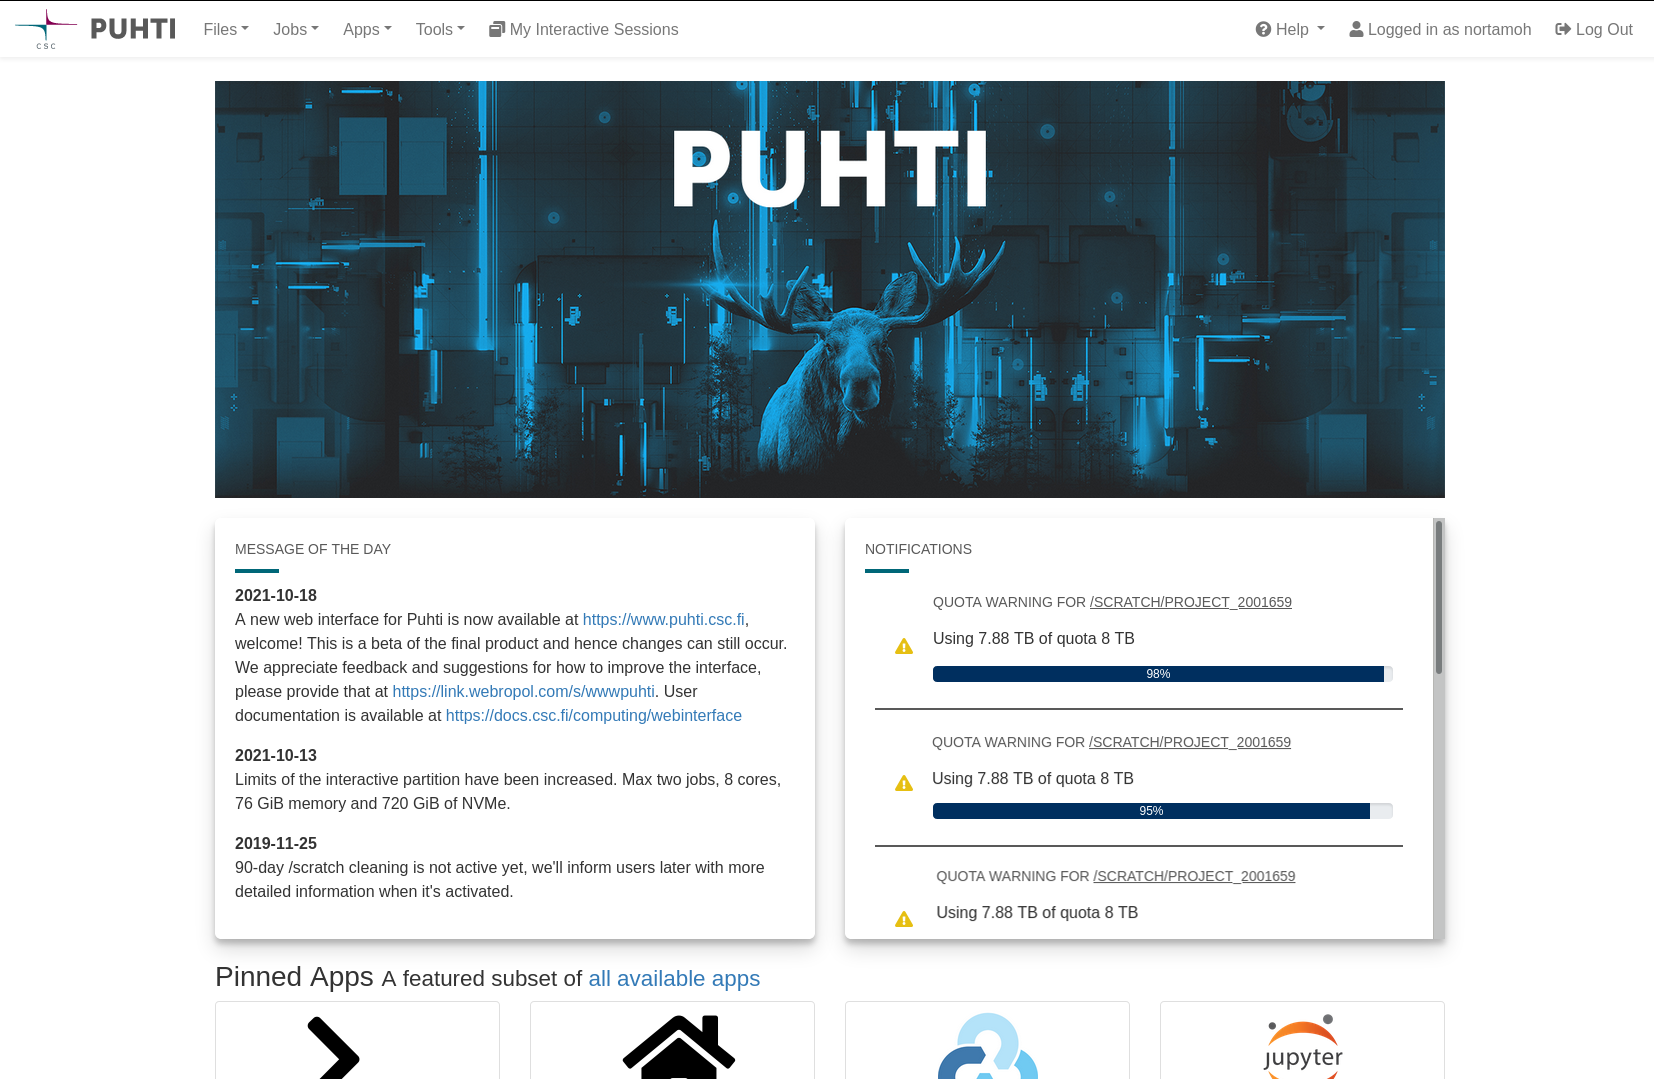
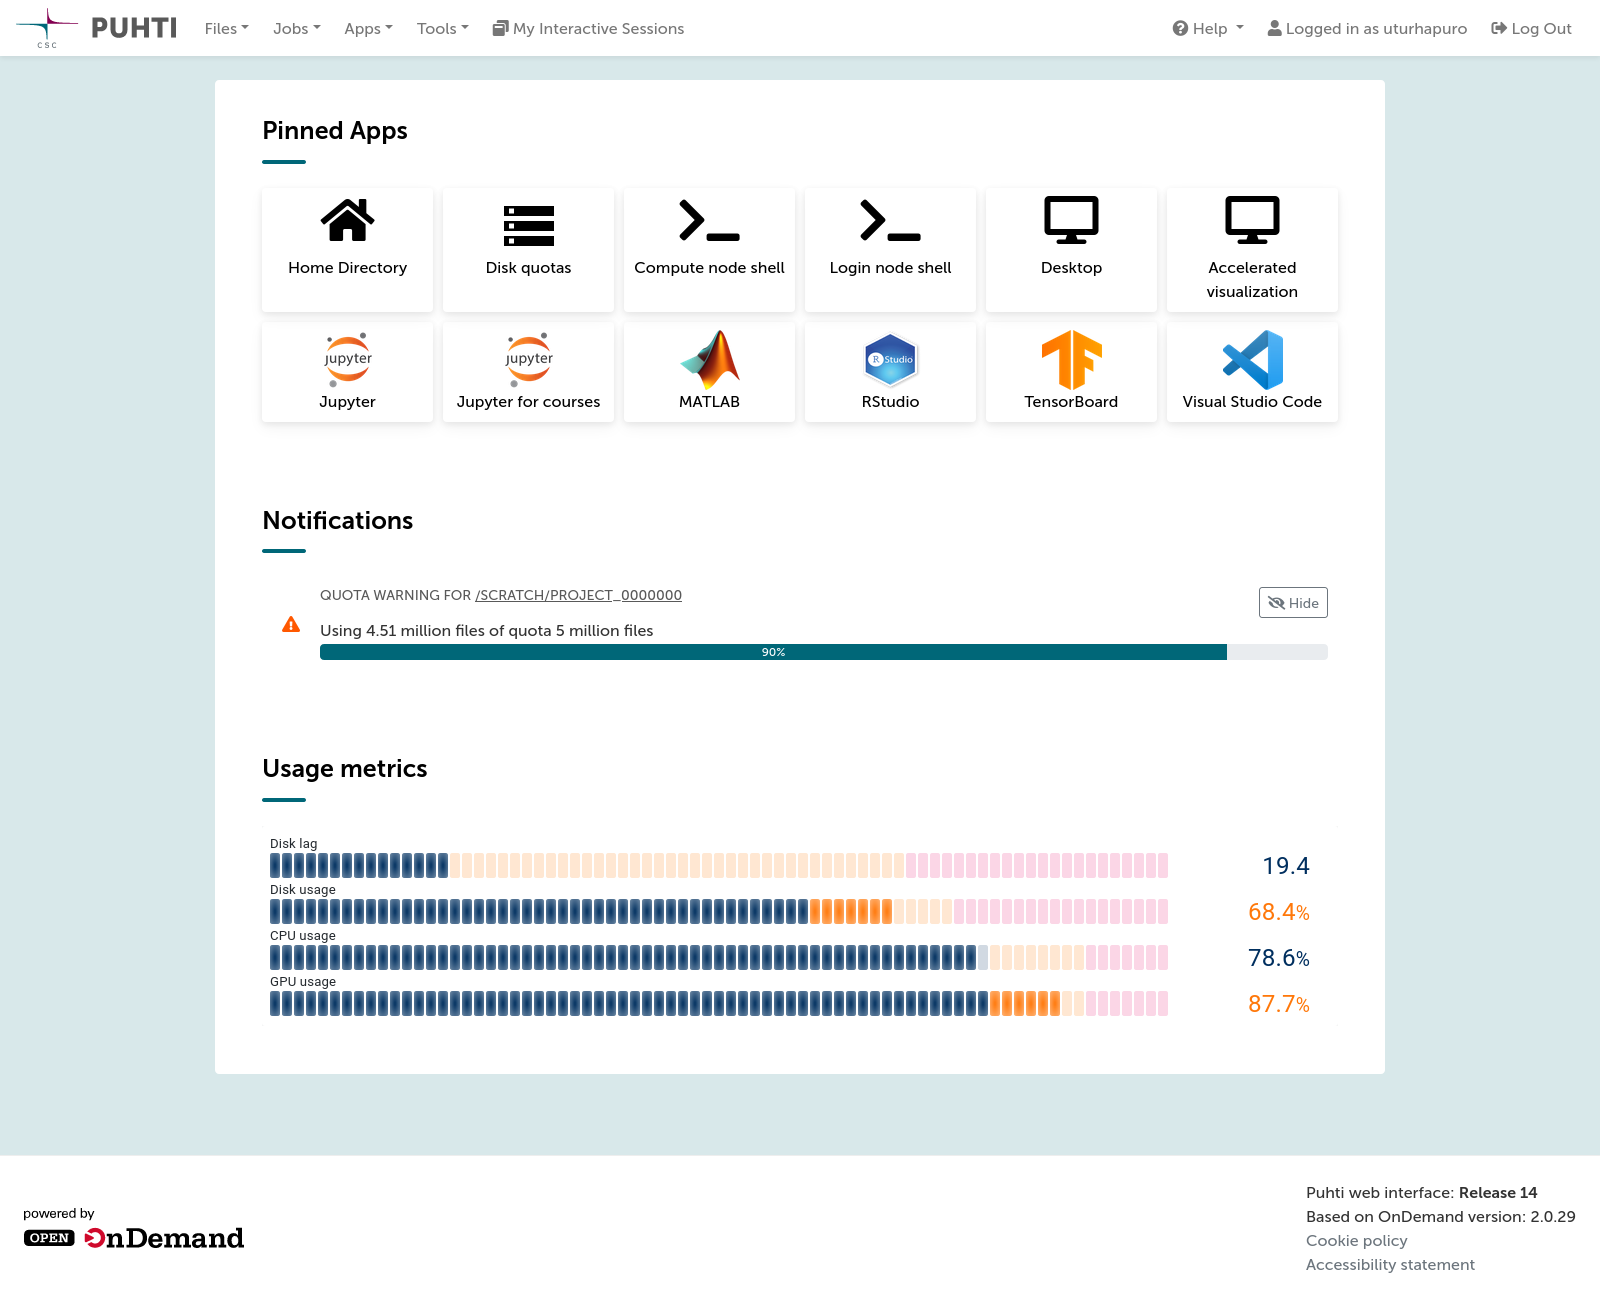
Update 'Computing > Web interface' (#1559)
* Updated screenshots

* Updated login instructions

* Minor adjustments

* Adjust screenshot

* Remove mention of Rclone

* Added 'Jupyter for courses'

* Added 'Accelerated visualization'

---------

diff --git a/docs/computing/webinterface/index.md b/docs/computing/webinterface/index.md
@@ -1,34 +1,44 @@
 # Puhti web interface
 
-
 ## Intro
 
 The Puhti web interface at [www.puhti.csc.fi](https://www.puhti.csc.fi) can be used to access the Puhti supercomputer 
-using just a web browser. In the web interface you can:
+using only a web browser. With the web interface you can:
 
 - View, download and upload files
 - Launch common graphical applications and connect to them directly from the browser
     - Jupyter
-    - Rstudio
+    - Jupyter for courses: An interactive Jupyter session specifically for courses
+    - RStudio
     - Visual Studio Code
     - and more
+- Launch an interactive GPU accelerated visualization session for applications such as
+    - Blender
+    - COMSOL
+    - ParaView
+    - VMD
 - Open a shell on the login node
-- open a persistent shell on a compute node
+- Open a persistent shell on a compute node
 - View running batch jobs
 
 Everything still runs directly on Puhti, giving you all the resources and power
-of a supercomputer, but easily accessible using just a web browser. 
+of a supercomputer, but easily accessible using only a web browser.
 
 
 ## Connecting
 
-Go to [puhti.csc.fi](https://puhti.csc.fi) using a web browser and login using your CSC user account (same username and password you use when connecting with `ssh`). 
+Using a web browser, go to [www.puhti.csc.fi](https://www.puhti.csc.fi). On the landing page, click on "Log in to Puhti" and select an appropriate authentication provider. When logging in using your CSC user account, select CSC as the authentication provider and use the same username and password you use when connecting with `ssh`.
+&nbsp;
+
 ![Puhti web interface login page](../../img/ood_login.png)
 
-After logging in, you will see the front page.
+After successful authentication, you will see the dashboard.
+&nbsp;
+
 ![Puhti web interface front page](../../img/ood_main.png)
 
-From here you can browse your files on Puhti, start a shell, view running jobs and start one of the many available programs. The front page also contains important system information.  
+From here you can browse your files on Puhti, start a shell, view running jobs or start one of the many available applications. The dashboard also contains some important system information.
+
 
 ## Available features
 
@@ -44,6 +54,7 @@ Note that the same rules apply here as during a normal ssh session.
 
 The _Compute node shell_ launches a persistent shell on a compute node for heavier commands that should not be run on login nodes.
 The persistent shell will keep running even if you close your browser or lose internet connection.
+
 
 ### Files
 
@@ -63,30 +74,32 @@ The file browser comes with a basic text editor. Some important notes on that:
 - There is no _save-as_ feature
 - If a read-only file is opened no indication will be given to the user but no changes will be applied
 
+
 ### Active jobs
 
 Recent and running batch jobs can be viewed using the _Jobs_ section on the top navbar and selecting _Active jobs_. Here you can view the current status of the job and what kind of resources were requested. Deleting a running job will cancel the job. 
 
 In the future it will become possible to submit batch jobs through the web interface, but for now the recommended way is to launch the jobs using `sbatch` from the shell.   
 
+
 ### Interactive apps
 
 Interactive apps are programs that can be launched and run on the compute nodes and provide a web interface.
-These are apps such as Jupyter Notebook, RStudio, Visual Studio Code and Rclone. 
+These are apps such as Jupyter Notebook, RStudio and Visual Studio Code.
 
 If the interactive app does not start or does not work as expected you can delete the session and try to launch the app again.
 
+
 #### Launching an interactive app
 
-The interactive apps can be found in the navigation bar or on `My Interactive Sessions` page.
+The interactive apps can be found in the navigation bar under _Apps_, or on _My Interactive Sessions_ page.
 After selecting an interactive app from the list you will be presented with a form to configure the session.
-After submitting the app form the app will be started and you will be able to connect to the application on the `My Interactive Sessions` page.
+After submitting the app form the app will be started and you will be able to connect to the application on the _My Interactive Sessions_ page.
 
-For a list of applications and specific instructions see [apps](apps.md)
-
+For a list of applications and specific instructions see [apps](apps.md).
 
 
 ### Project view
 
 Using the project view under the _Tools_ section on the top navbar, you can view 
-current disk and project billing unit quotas on Puhti. For more information see [project-view](project-view.md) 
+current disk and project billing unit quotas on Puhti. For more information see [project-view](project-view.md).
